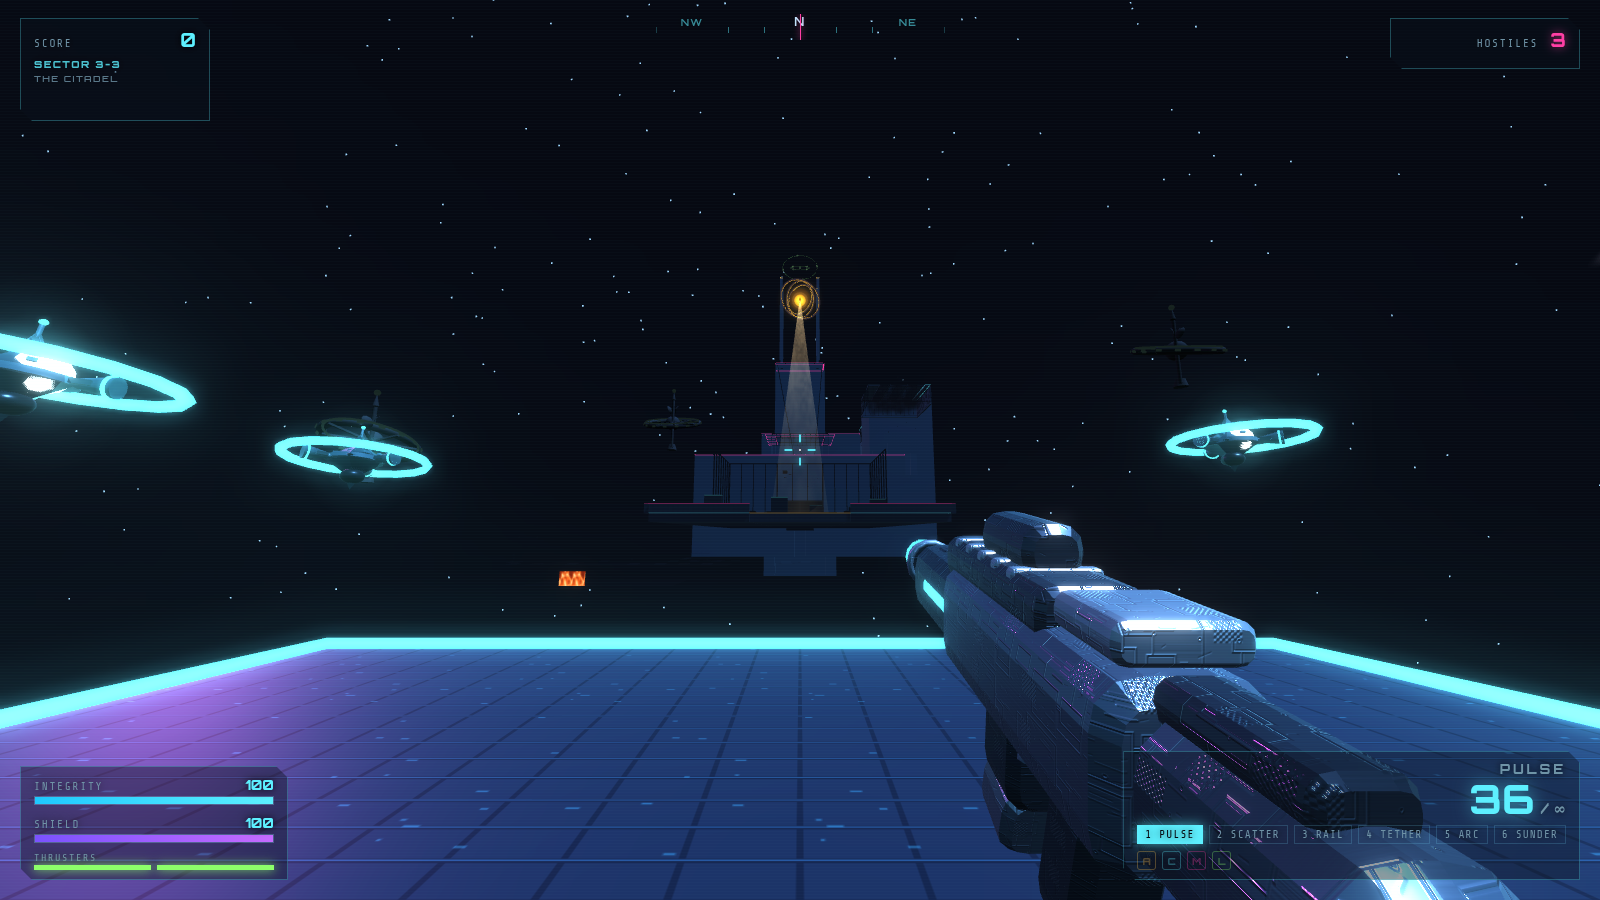
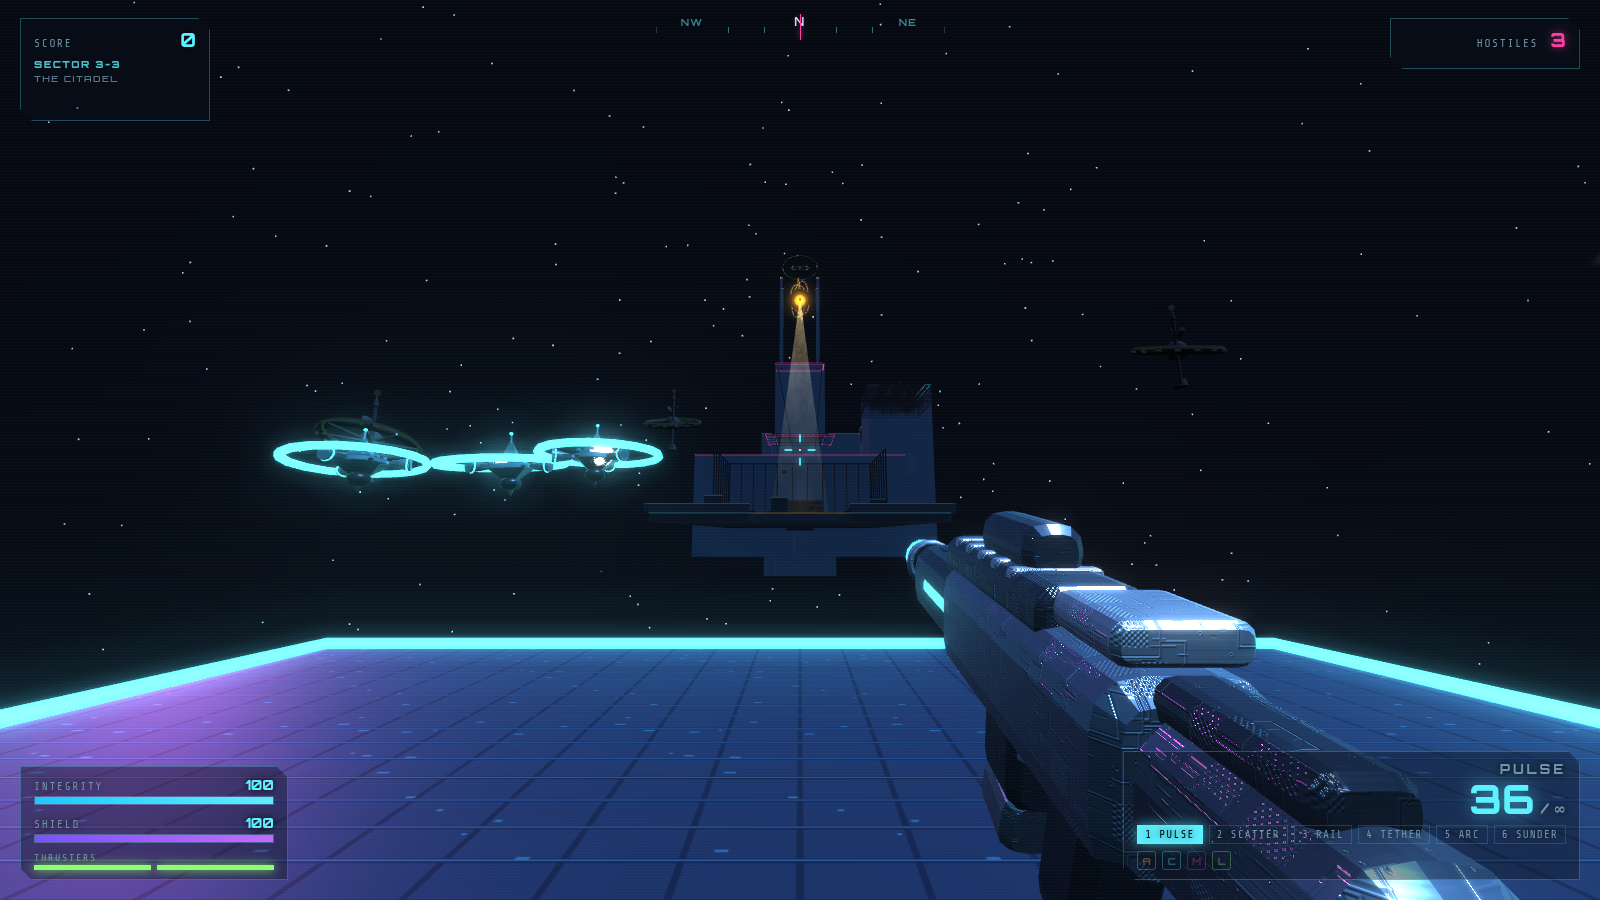
3-2: an up arrow in the lift cage at the clamp; 3-3: the metal fall fades into the fog

diff --git a/js/level.js b/js/level.js
@@ -1301,7 +1301,7 @@ function addMolten(h){
 function addCascade(h){
   const [x,y,z]=h.p, [w,hh]=h.s, LT=lavaTex(), tile=9;
   const tex=c=>{ const t=new THREE.CanvasTexture(c); t.wrapS=t.wrapT=THREE.RepeatWrapping; t.repeat.set(w/tile,hh/tile*0.5); return t; };
-  const mat=new THREE.MeshBasicMaterial({color:0xffffff, map:tex(LT.base), side:THREE.DoubleSide, transparent:true, fog:false});
+  const mat=new THREE.MeshBasicMaterial({color:0xffffff, map:tex(LT.base), side:THREE.DoubleSide, transparent:true});
   mat.__perObject=true;
   const m=new THREE.Mesh(new THREE.PlaneGeometry(w,hh),mat);
   m.position.set(x,y+hh/2,z); if(h.across==='z') m.rotation.y=Math.PI/2;

diff --git a/tools/gen-act3-2.py b/tools/gen-act3-2.py
@@ -216,6 +216,9 @@ L(breach(26, 51, 15, 1.6, 1.6, 1.6, id='cageclamp', do=[{'a': 'fall', 'id': 'cag
 for cx in (23.4, 28.6):
     for cz in (12.4, 17.6):
         CABLES.append({'a': [cx, WALK, cz], 'b': [26, 51, 15], 'cut': {'fall': 'cage'}})
+# an arrow up the shaft's far wall, in front of you as you step on: the clamp
+# over your head is what to break
+SIGNS = [{'p': [26, 47.2, 12.03], 'face': 'z', 's': [2.6, 3.2], 'arrow': 'up'}]
 # the bottom room x 23..33 z -20..11, at 28, two storeys: a ledge at 34 across
 # its south end, where the cage stops, solid to the floor, and the rest open
 # to the roof. One hard wave, from the floor and the air: fight it from the
@@ -629,6 +632,7 @@ LEVEL = {
  'geometry': G,
  'falls': FALLS,
  'cables': CABLES,
+ 'signs': SIGNS,
  'movers': [
    {'id': 'crane', 'p': CR_P, 'to': CR_TO, 's': [3, 2.5, 60], 'period': CRANE_RUN, 'mat': 'block', 'trim': 'amber'},
    {'id': 'cradle', 'p': CD_P, 'to': CD_TO, 's': [4.4, 0.6, 4.4], 'period': CRANE_RUN, 'mat': 'dark', 'trim': 'amber'},
